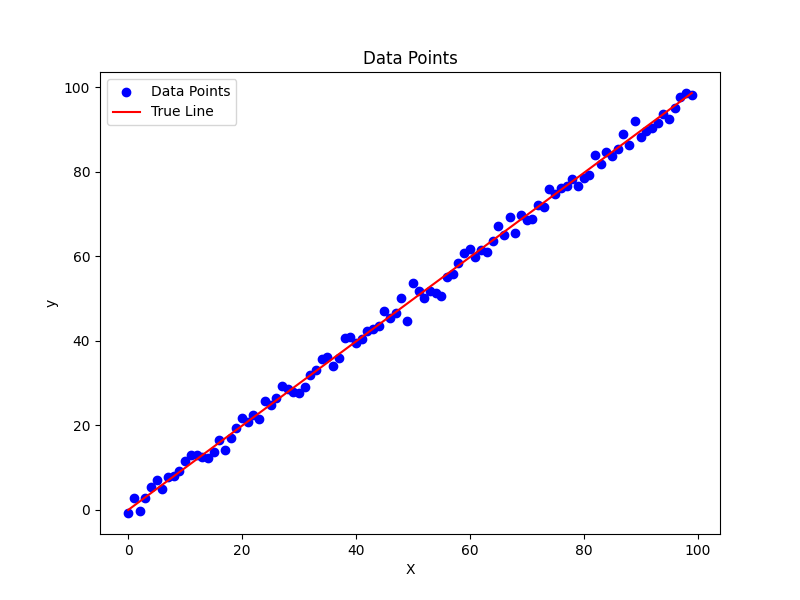
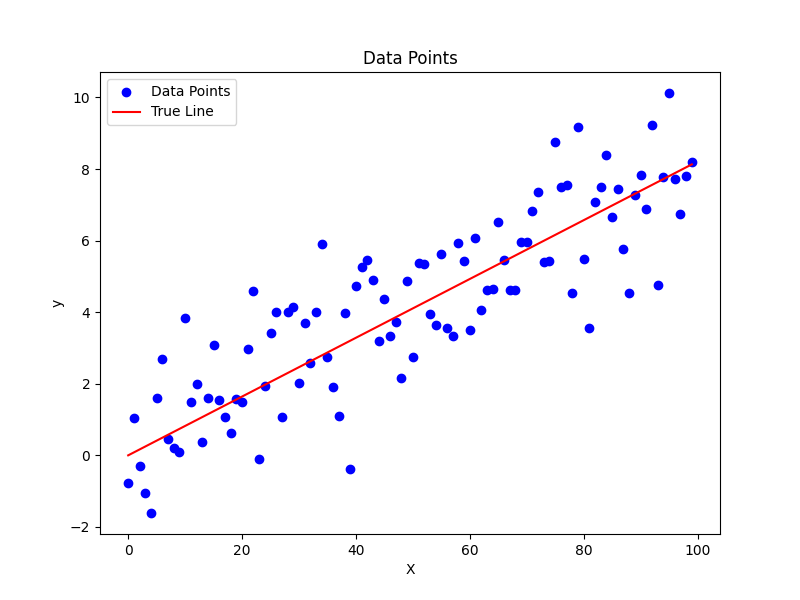
generate data for 2 covariates + 3D plotting

diff --git a/code/regression.py b/code/regression.py
@@ -1,10 +1,13 @@
 import numpy as np
 import matplotlib.pyplot as plt
+from mpl_toolkits.mplot3d import Axes3D
 
 
 class LinearRegression():
-    def __init__(self, simple=True, n=100, p=1, sigma=2) -> None:
-        self.simple = simple
+    def __init__(self, n=100, p=1, sigma=2) -> None:
+        self.n = n
+        self.p = p
+        self.sigma = sigma
 
         self.weights = None
         self.bias = None
@@ -12,13 +15,15 @@ class LinearRegression():
         self.true_bias = None
         self.true_y = None
         self.X = None
-        self.n = n
-        self.p = p
-        self.sigma = sigma
+        self.pred = None
+        self.residuals = None
+        self.sigma_naive = None
+        self.sigma_cor = None
 
     def get_bhat(self):
         bhat = np.linalg.inv(self.X.T @ self.X) @ self.X.T @ self.y
-        return bhat
+        self.weights = bhat
+        # return bhat
 
     def simple_bhat1(self):
         xmean = np.mean(self.X)
@@ -36,9 +41,13 @@ class LinearRegression():
         self.bias = ymean - xmean * self.weights
         # return ymean - xmean * bhat1
 
-    def generate_simple_data(self):
-        self.X = np.arange(self.n)
-        self.true_weights = np.random.rand()  # p = 1
+    def generate_data(self):
+        if self.p == 1:
+            self.X = np.arange(self.n)
+            self.true_weights = np.random.uniform()
+        else:
+            self.X = np.random.rand(self.n, self.p) * 10
+            self.true_weights = np.random.uniform(0, 10, self.p)
         self.true_bias = np.random.normal(0, np.sqrt(self.sigma), self.n)
         self.true_y = np.dot(self.X, self.true_weights) + self.true_bias
 
@@ -55,6 +64,7 @@ class LinearRegression():
         plt.savefig("figure/simple_data.png")
         if show:
             plt.show()
+            plt.close()
 
     def plot_simple_regression_line(self, show=False):
         plt.figure(figsize=(8, 6))
@@ -63,21 +73,61 @@ class LinearRegression():
         plt.ylabel("y")
         plt.title("Simple Linear Regression")
 
+        # get true line
         line = np.dot(self.X, self.true_weights)
         plt.plot(self.X, line, label=f"True Line", color='r')
 
+        # get model weights and bais
         self.simple_bhat1()
         self.simple_bhat0()
-        pred = np.dot(self.X, self.weights) + self.bias
-        plt.plot(self.X, pred, label=f"Regression line", color='g')
+        self.pred = np.dot(self.X, self.weights) + self.bias
+        plt.plot(self.X, self.pred, label=f"Regression line", color='g')
 
         plt.legend()
         plt.savefig("figure/simple_regression.png")
         if show:
             plt.show()
+            plt.close()
+
+    def plot_multi_data(self, show=False):
+        # 2 covariates only
+        # Create a 3D scatter plot to visualize the data
+        fig = plt.figure()
+        ax = fig.add_subplot(111, projection='3d')
+
+        ax.scatter(self.X[:, 0], self.X[:, 1], self.true_y, c='b', marker='o')
+
+        ax.set_xlabel('X1')
+        ax.set_ylabel('X2')
+        ax.set_zlabel('Y')
+
+        plt.title("Multiple Linear Regression Data")
+        plt.savefig("figure/multi_data.png")
+        if show:
+            plt.show()
+            plt.close()
+
+    def sample_residuals(self):
+        self.residuals = self.true_y - self.pred
+
+    def get_sigma_naive(self):
+        self.sample_residuals()
+        sum = np.sum(np.square(self.residuals))
+        self.sigma_naive = sum/self.n
+
+    def get_sigma_cor(self):
+        self.sigma_cor = 1/(self.n - self.p) * \
+            np.sum(np.square(self.residuals))
 
 
-model = LinearRegression(n=100, sigma=2)
-model.generate_simple_data()
+model = LinearRegression()
+model.generate_data()
 model.plot_simple_data()
 model.plot_simple_regression_line()
+model.get_sigma_naive()
+# print(f"sigma naive: {model.sigma_naive}")
+
+# --------
+model2 = LinearRegression(p=2)
+model2.generate_data()
+model2.plot_multi_data()

diff --git a/code/test.py b/code/test.py
@@ -1,0 +1,39 @@
+import numpy as np
+import matplotlib.pyplot as plt
+from mpl_toolkits.mplot3d import Axes3D
+
+# Set a random seed for reproducibility
+np.random.seed(0)
+
+# Number of data points
+n = 100
+
+# Generate random covariates x1 and x2
+x1 = np.random.rand(n) * 10
+x2 = np.random.rand(n) * 5
+
+# Generate random coefficients
+beta1 = 2.0
+beta2 = 3.0
+beta0 = 5.0
+
+# Generate random noise
+sd = 2.0
+eps = np.random.normal(0, sd, n)
+
+# Generate the target variable y using a multiple linear regression model
+y = beta0 + beta1 * x1 + beta2 * x2 + eps
+
+# Create a 3D scatter plot to visualize the data
+fig = plt.figure()
+ax = fig.add_subplot(111, projection='3d')
+
+ax.scatter(x1, x2, y, c='b', marker='o')
+
+ax.set_xlabel('X1')
+ax.set_ylabel('X2')
+ax.set_zlabel('Y')
+
+plt.title("Multiple Linear Regression Data")
+
+plt.show()
